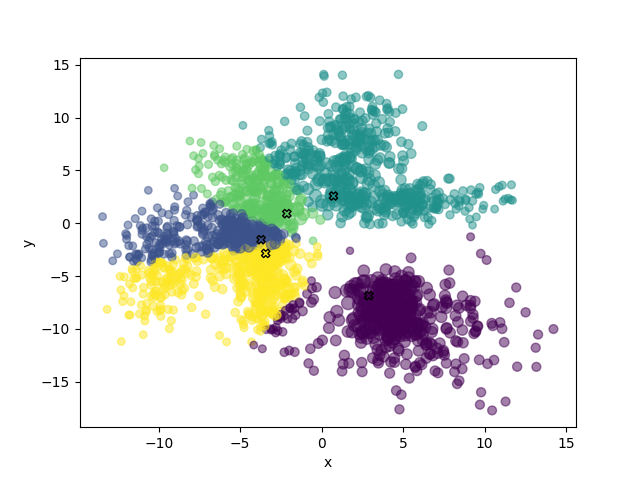
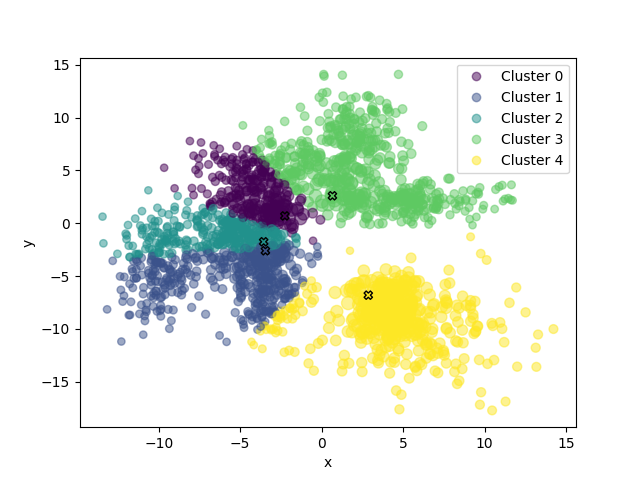
plot by membership

diff --git a/src/fuzzy_cmeans.py b/src/fuzzy_cmeans.py
@@ -41,11 +41,12 @@ class FuzzyCMeans:
             dist = np.power(dist, 2)
             #print(dist[:10])
             #print(self.memberships[:10, c])
-            #self.weighted_dist[:, c] = dist * self.memberships[:, c]
+            self.dist[:, c] = dist
             #print(self.weighted_dist[:10])
         
         #print(np.sum(self.weighted_dist, axis=0))
         #print(self.memberships[0], self.memberships[:10, 0])
+        #print(self.dist)
     def update_centroids(self):
         #print(self.data_points[0], self.memberships[0])
 
@@ -82,15 +83,15 @@ class FuzzyCMeans:
 
 
     def run_clustering(self):
-        plot_cmeans(self.data_points, self.centroids, self.memberships, save_as='old.png')
+        plot_cmeans(self.data_points, self.centroids, self.memberships, save_as='old_mem.png')
         for epoch in range(self.epochs):
             print("Epoch: {}".format(epoch))
             self.update_centroids()
             self.update_membership()
-            #self.update_w_dist(epoch)
+            self.update_w_dist(epoch)
             
 
-        plot_cmeans(self.data_points, self.centroids, self.memberships, save_as='new.png')
+        plot_cmeans(self.data_points, self.centroids, self.memberships, save_as='new_mem.png')
         
             
 
@@ -105,5 +106,3 @@ if __name__=='__main__':
 
     fcmeans = FuzzyCMeans(args.ep, args.data, args.clusters, q=2)
     fcmeans.run_clustering()
-    #np.savetxt('trained.csv', (fcmeans.data_points, fcmeans.weighted_dist), delimiter=",",newline='\n',fmt='%f')
-    #plot_cmeans(fcmeans.data_points, fcmeans.centroids, fcmeans.memberships)

diff --git a/src/utils.py b/src/utils.py
@@ -16,7 +16,7 @@ def plot_train_data(data, centroids):
 
 
 def plot_cmeans(data, centers, membership, save_as=None):
-    clusters_id = np.argmax(membership, axis=1)
+    clusters_id = np.argmin(membership, axis=1)
     clusters_mem = np.max(membership, axis=1)
     data = data.T
 
